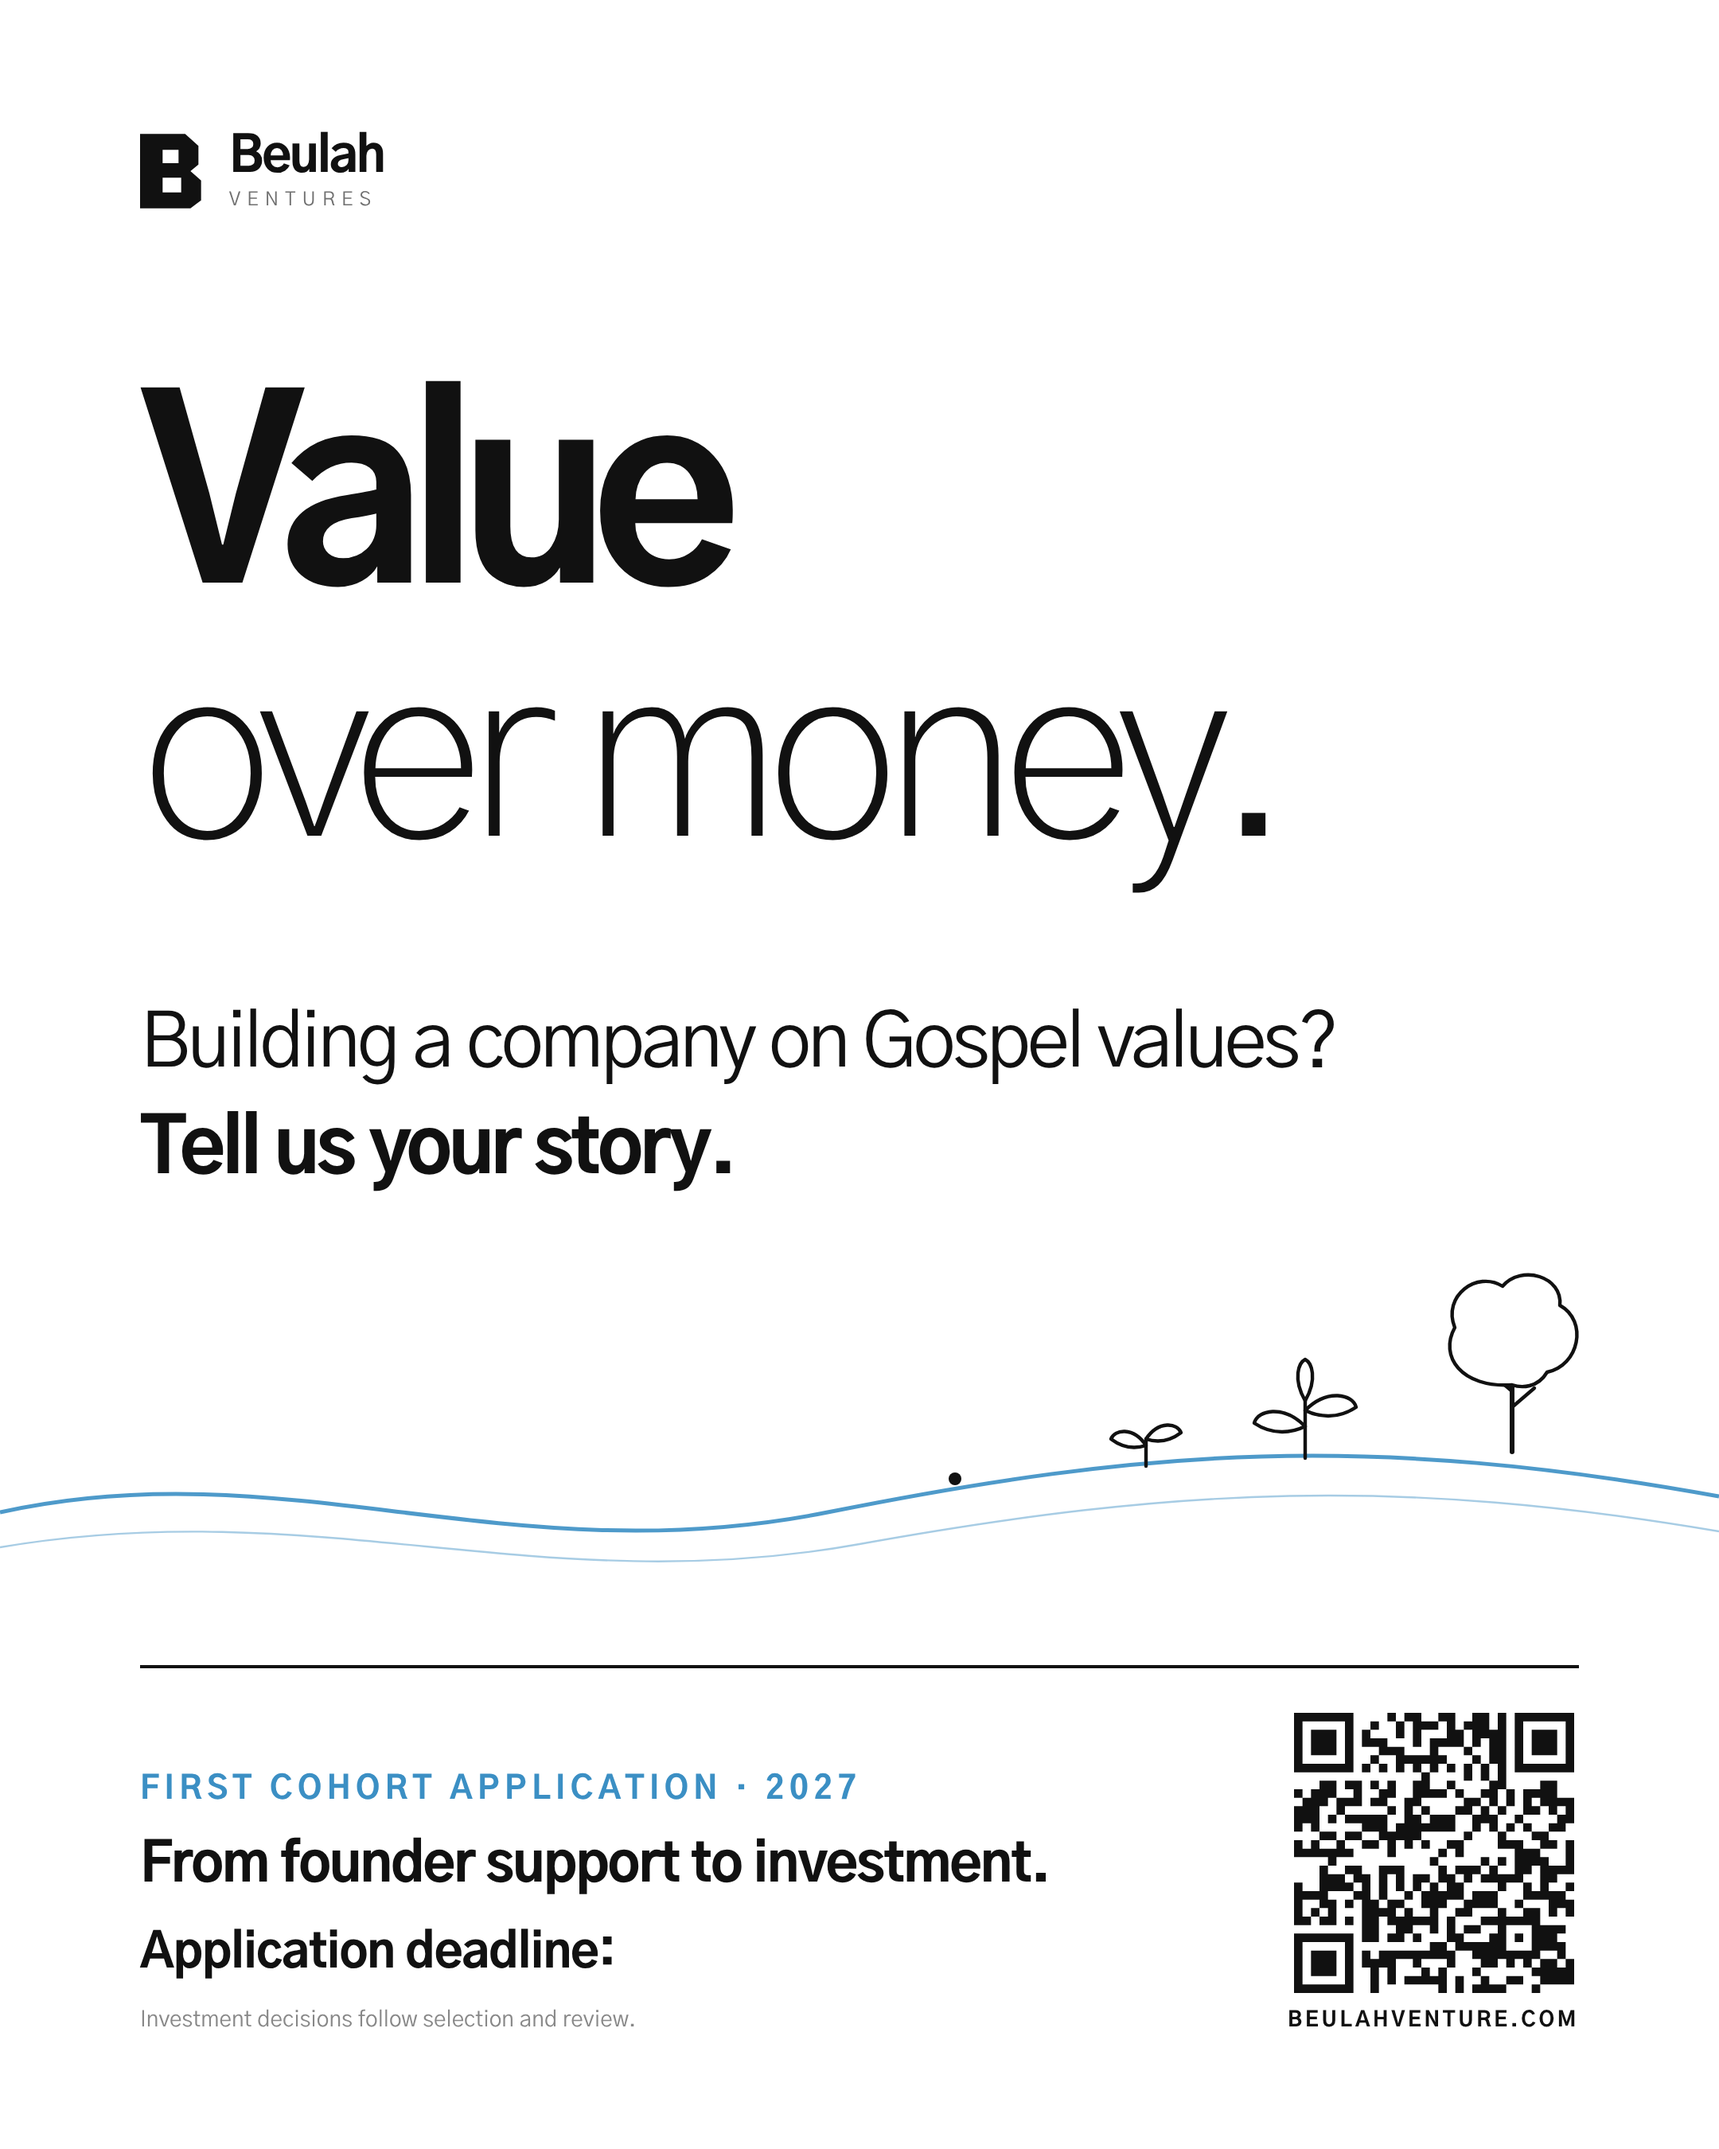
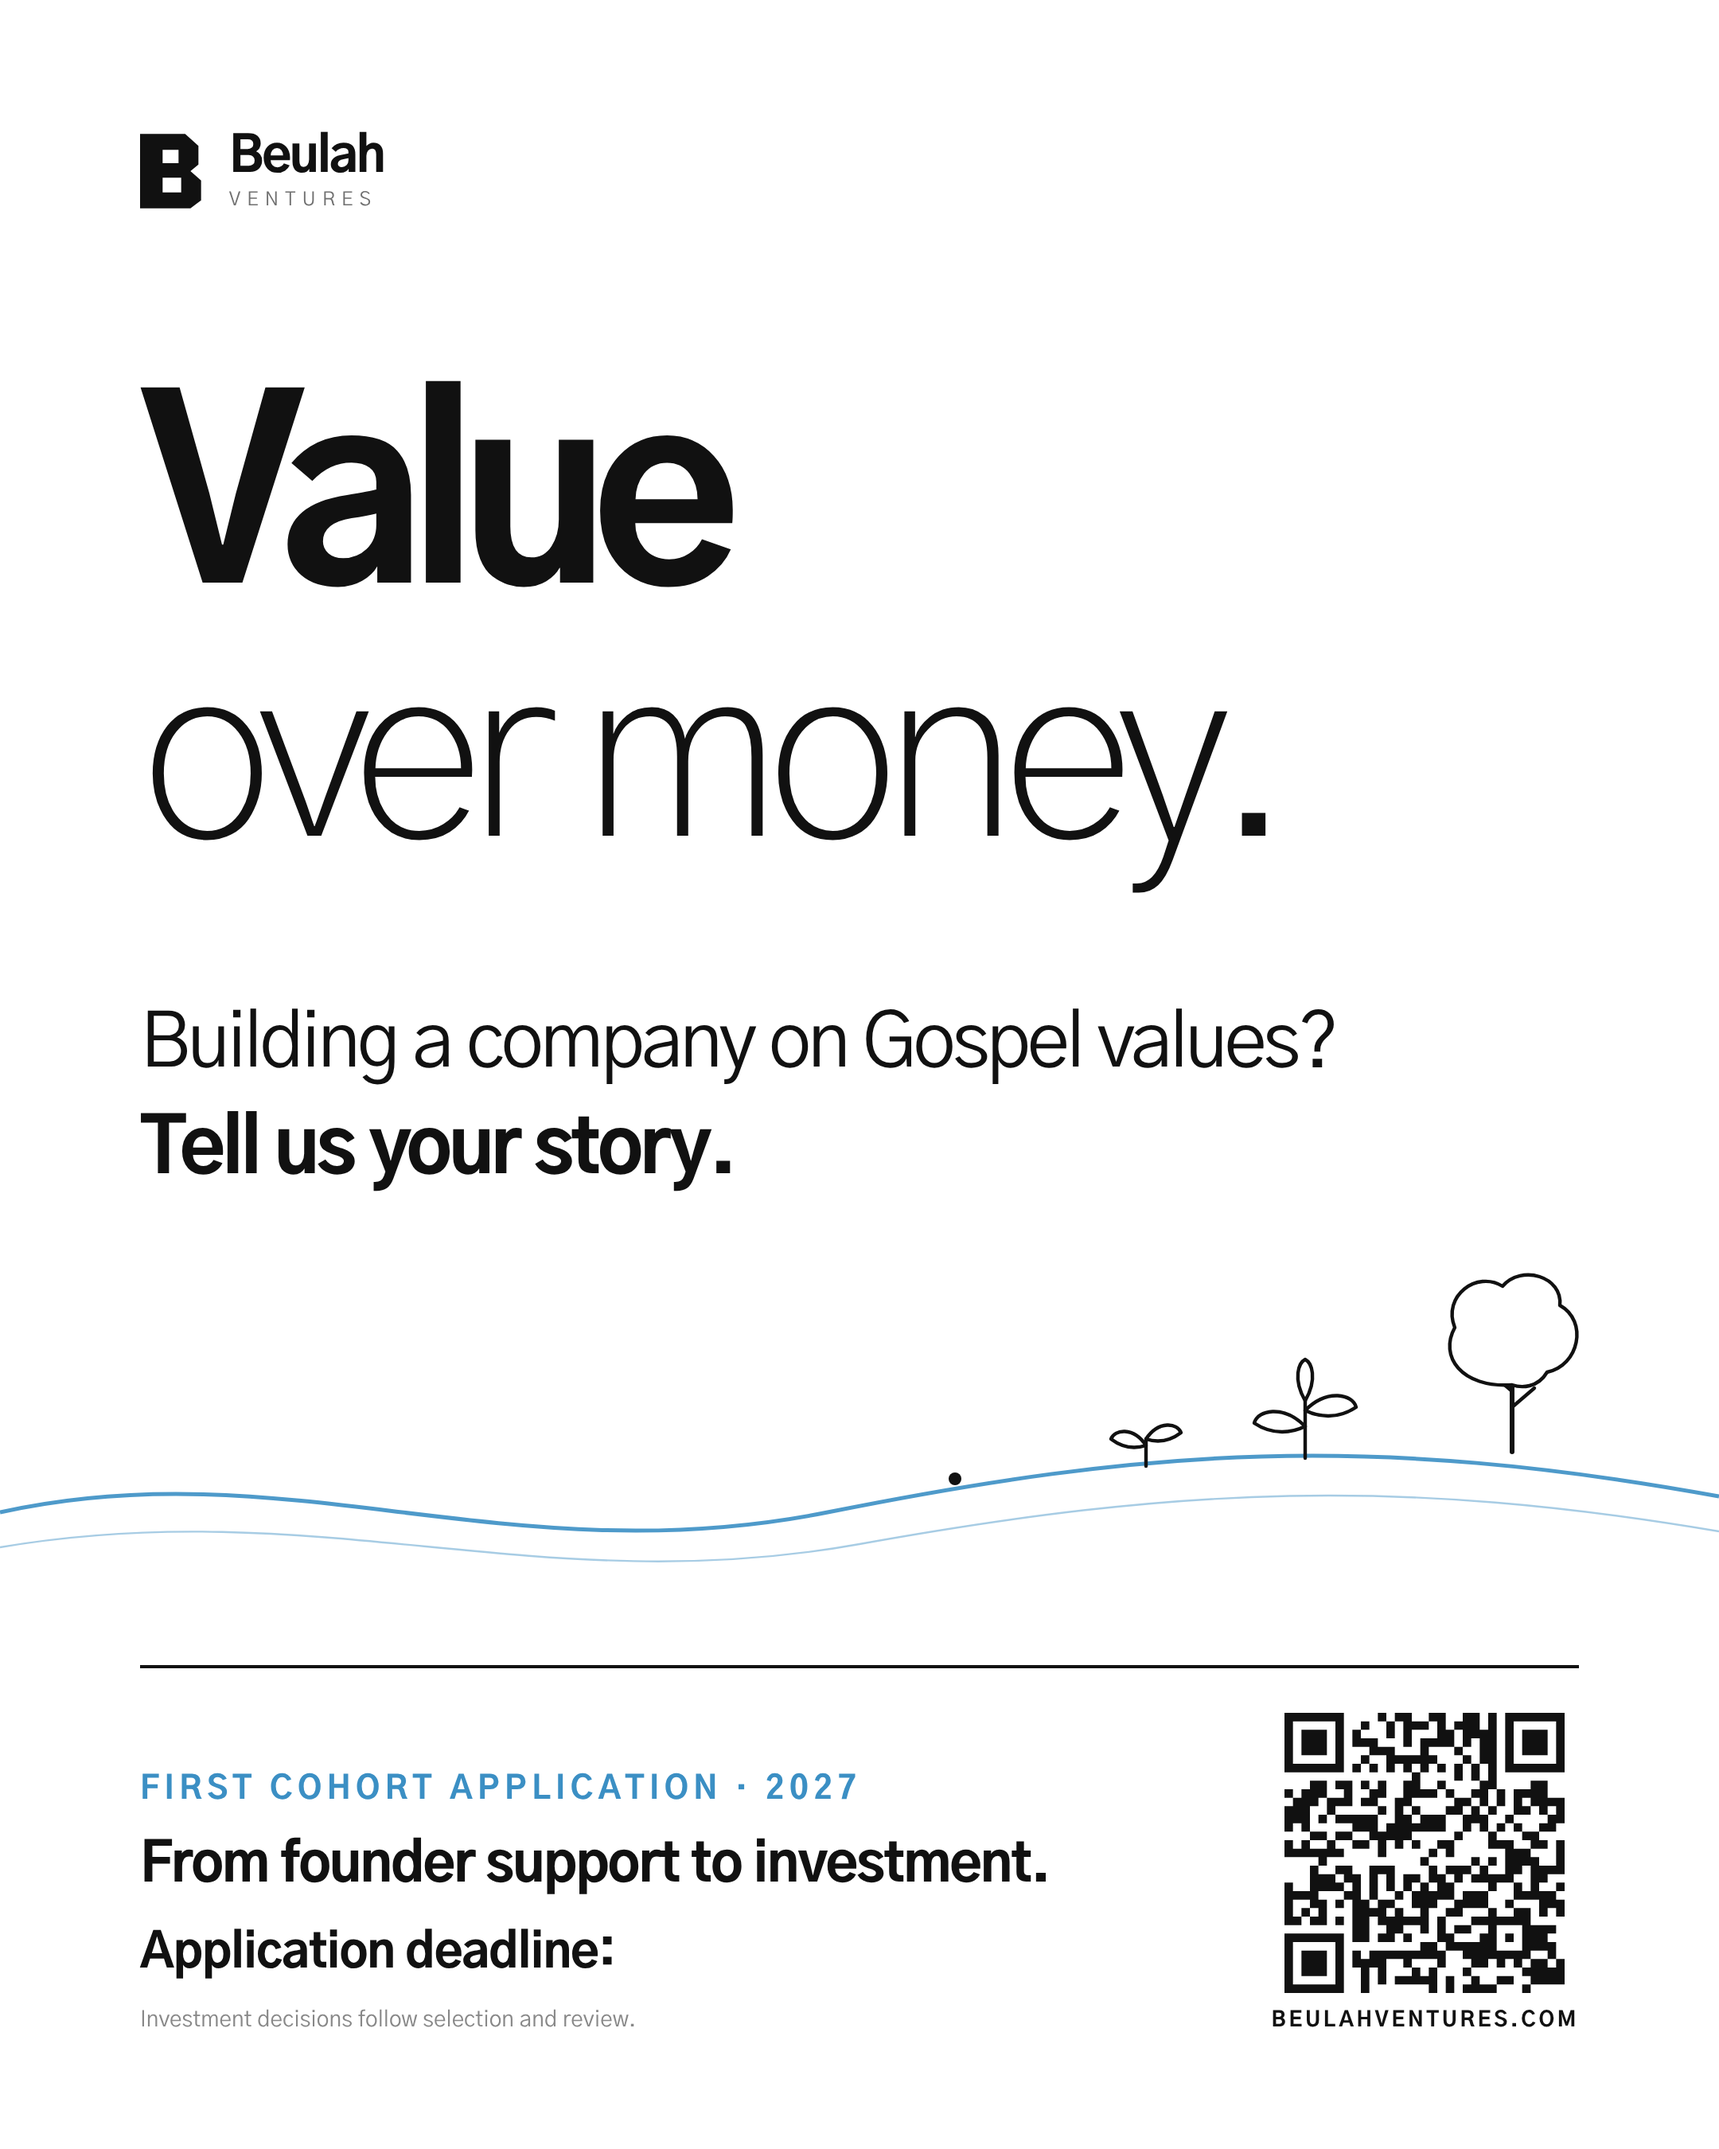
Posters: show beulahventures.com under QR
Claude-Session: https://claude.ai/code/session_01HiA1Gp4GK2nhaoBP7R72t1

Changed region(s): [[0.7444, 0.7778, 0.9306, 0.9644]]

diff --git a/brand/beulah-poster.html b/brand/beulah-poster.html
@@ -62,7 +62,7 @@ h1 em { font-style: normal; font-weight: 800; }
       <div class="ask">모집 마감일 :</div>
       <div class="note">투자는 선발과 심사를 거쳐 결정됩니다.</div>
     </div>
-    <div class="qr"><img src="qr.svg" alt="QR: beulahventure.com"><span>BEULAHVENTURE.COM</span></div>
+    <div class="qr"><img src="qr.svg" alt="QR: beulahventure.com"><span>BEULAHVENTURES.COM</span></div>
   </div>
 </div>
 </body></html>

diff --git a/brand/beulah-poster-en.html b/brand/beulah-poster-en.html
@@ -62,7 +62,7 @@ h1 em { font-style: normal; font-weight: 800; }
       <div class="ask">Application deadline:</div>
       <div class="note">Investment decisions follow selection and review.</div>
     </div>
-    <div class="qr"><img src="qr.svg" alt="QR: beulahventure.com"><span>BEULAHVENTURE.COM</span></div>
+    <div class="qr"><img src="qr.svg" alt="QR: beulahventure.com"><span>BEULAHVENTURES.COM</span></div>
   </div>
 </div>
 </body></html>
